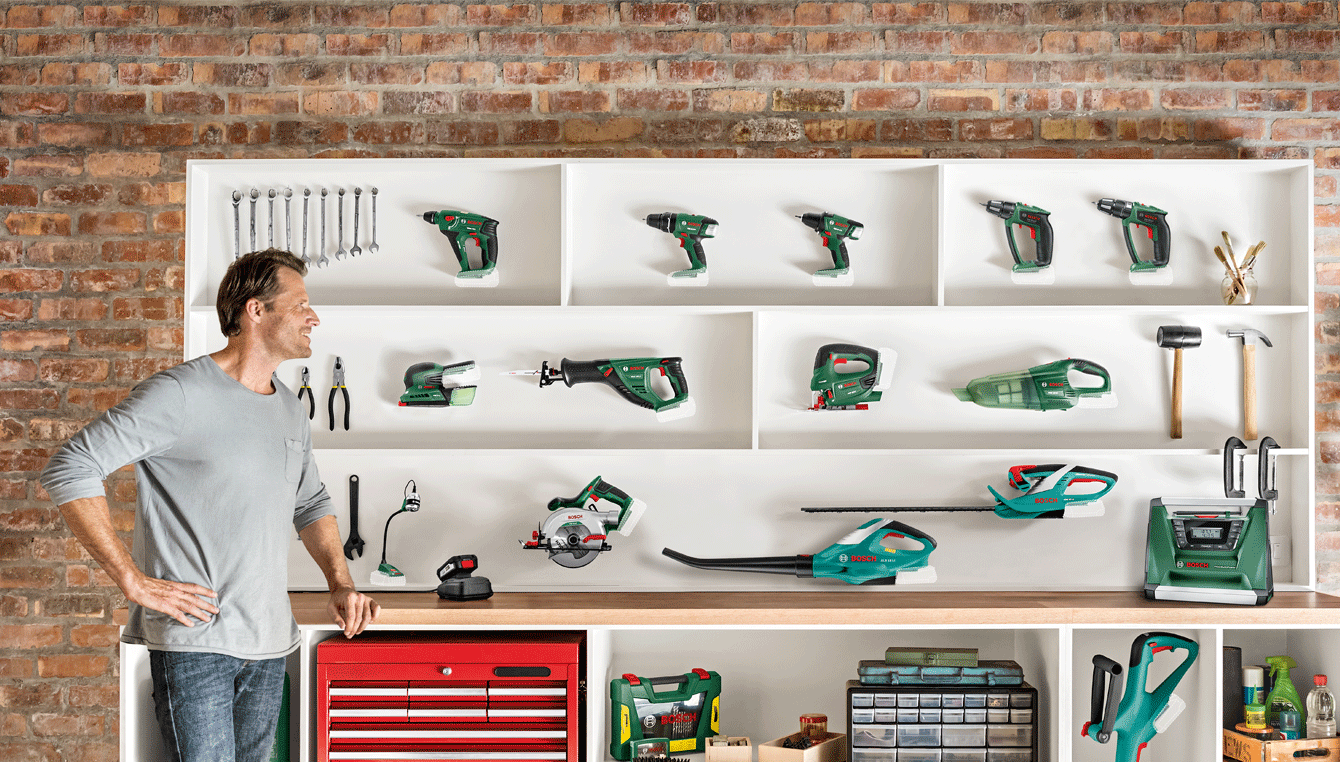
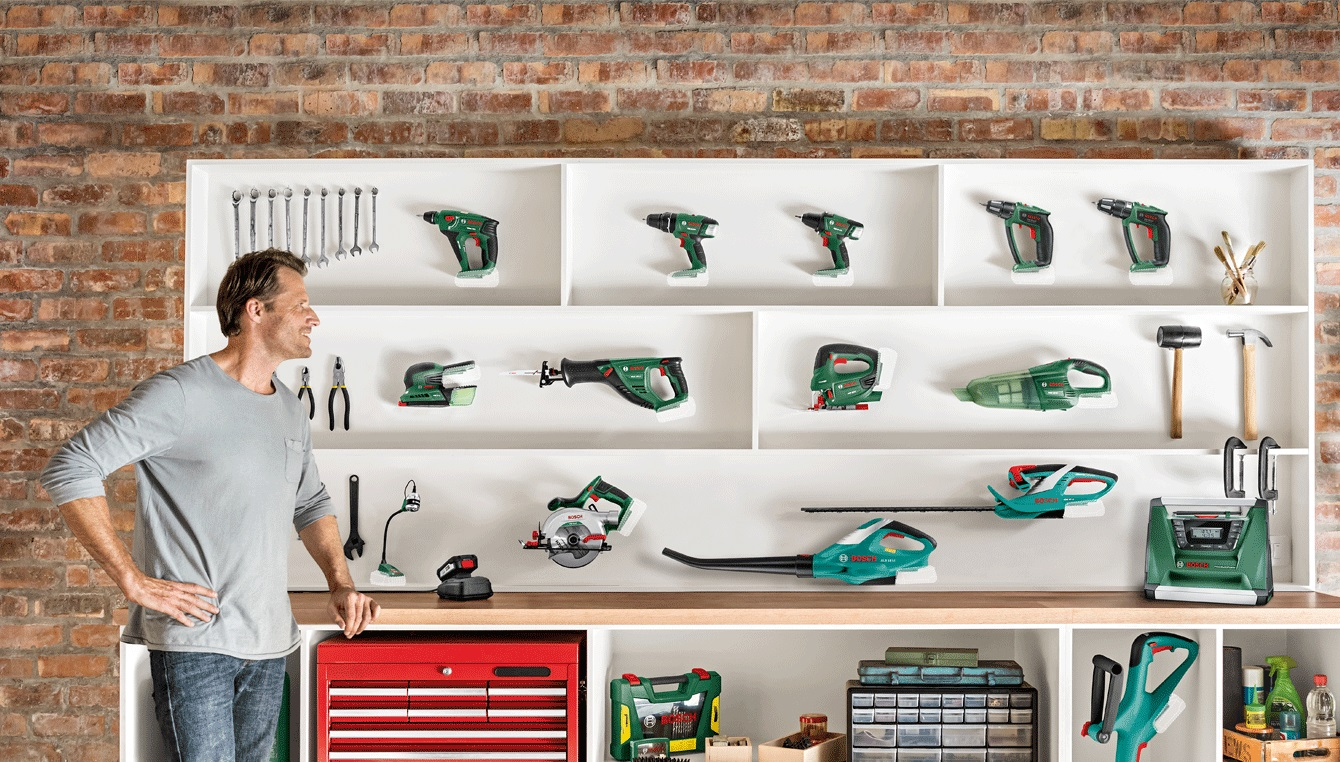
resize images

diff --git a/web/css/base.css b/web/css/base.css
@@ -309,7 +309,7 @@ footer{
 
 .map img{
  width: 100%;
- height: 900px;
+ height: 800px;
 }
 
 @media screen and (max-width: 901px) {
